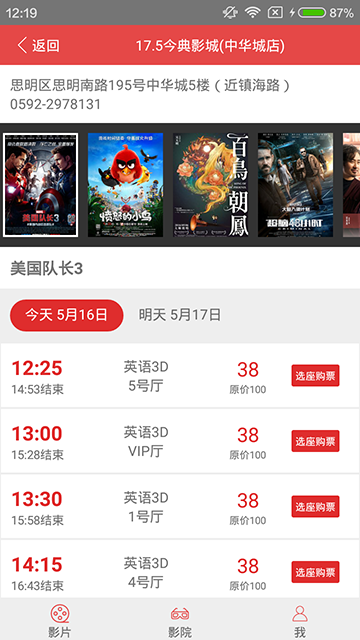
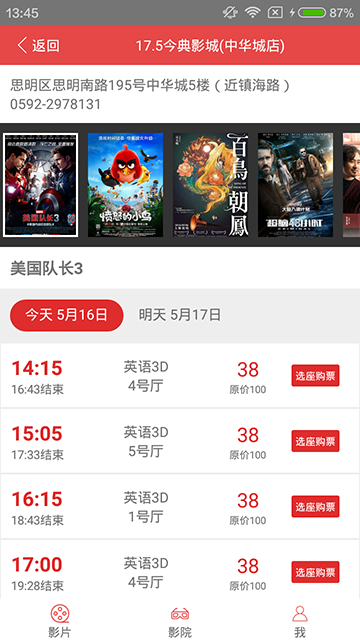
add\ gif

diff --git a/README.md b/README.md
@@ -21,26 +21,11 @@
 * ScrollView上拉加载
 * ...
 
-## 主要界面：
-影片列表：
+## 演示：
 
-![](./images/index.png)
-
-影片详情：
-
-![](./images/filmInfos.png)
-
-影院列表：
-
-![](./images/cinemaList.png)
-
-影院详情：
-
-![](./images/cineDetail.png)
-
-登录界面:
-
-![](./images/user.png)
+**影片列表：**
+(录制于原生安卓模拟器,真机效果会更流畅)
+![](./images/demo.gif)
 
 
 ## TODO
